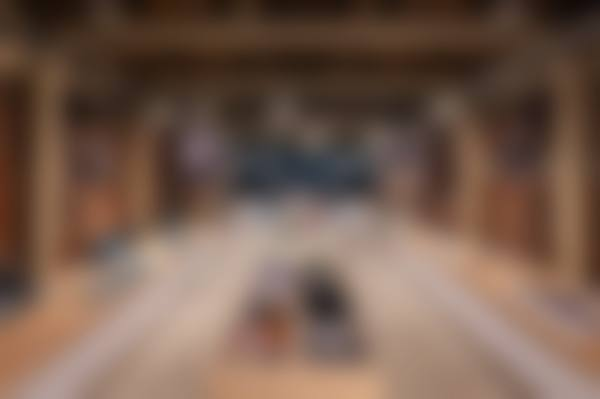
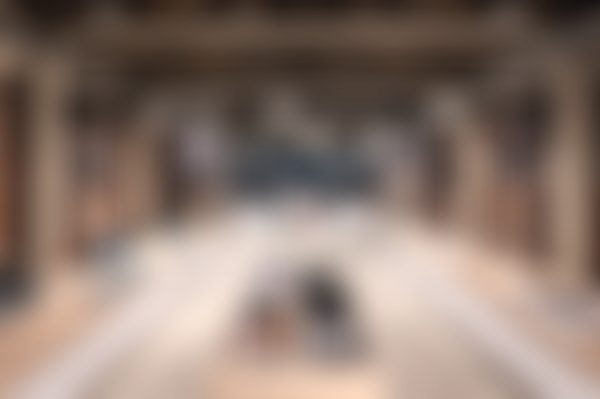
Feat(Views): Soften SPOSAD decorative star photo haze
1. Regenerate the pre-blurred plan photos with lower saturation and higher brightness.
2. Add a reproducible sharp script and assets:plan-blur npm task to bake the haze.
3. Desaturate and lighten the mobile static star filter to match the desktop look.

NOTE:
1. The baked blur assets read darker and more saturated than the source photos.
2. Owner asked for lighter, less deep haze on the three plan background photos.

diff --git a/apps/frontend/src/components/public/organisms/PlanCarousel/PlanCarousel.tsx b/apps/frontend/src/components/public/organisms/PlanCarousel/PlanCarousel.tsx
@@ -191,8 +191,9 @@ export function PlanCardWithStars({
                   backgroundSize: 'cover',
                   backgroundPosition: 'center',
                   clipPath: STAR_CLIP,
-                  // 霧化透出：模糊 + 半透明，融入卡片底下。
-                  filter: 'blur(8px)',
+                  // 霧化透出：模糊 + 降彩度提亮 + 半透明，輕透融入卡片底下（與桌機
+                  // 預模糊圖的淡彩外觀一致，不濃深）。
+                  filter: 'blur(8px) saturate(0.6) brightness(1.15)',
                   opacity: 0.55,
                   pointerEvents: 'none',
                   zIndex: 0,
